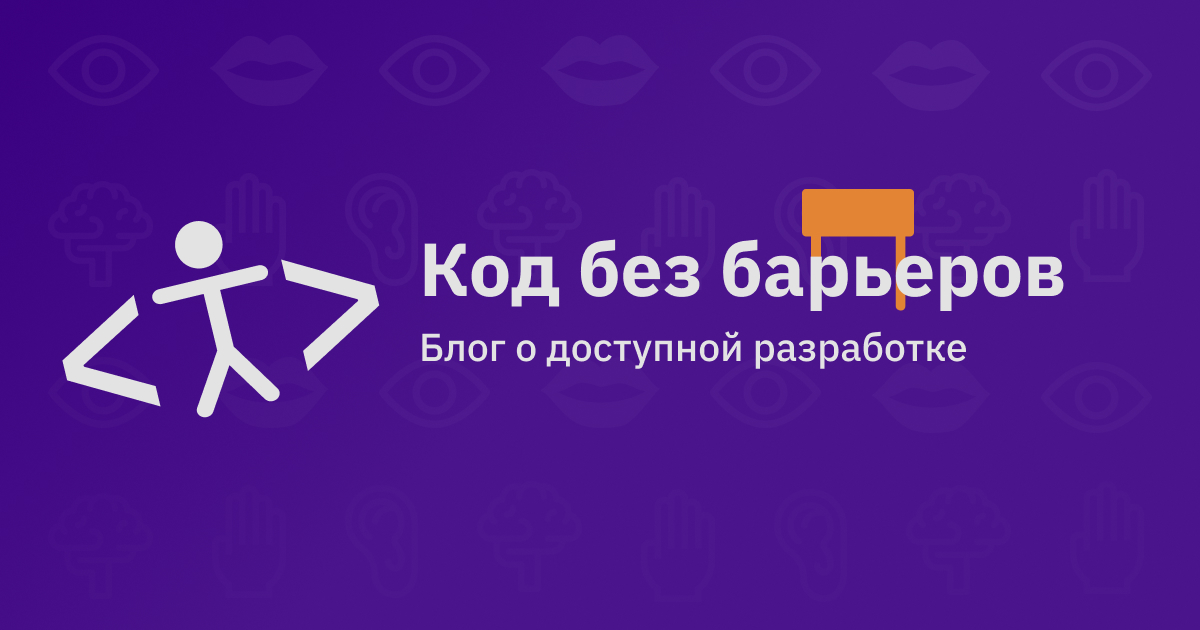
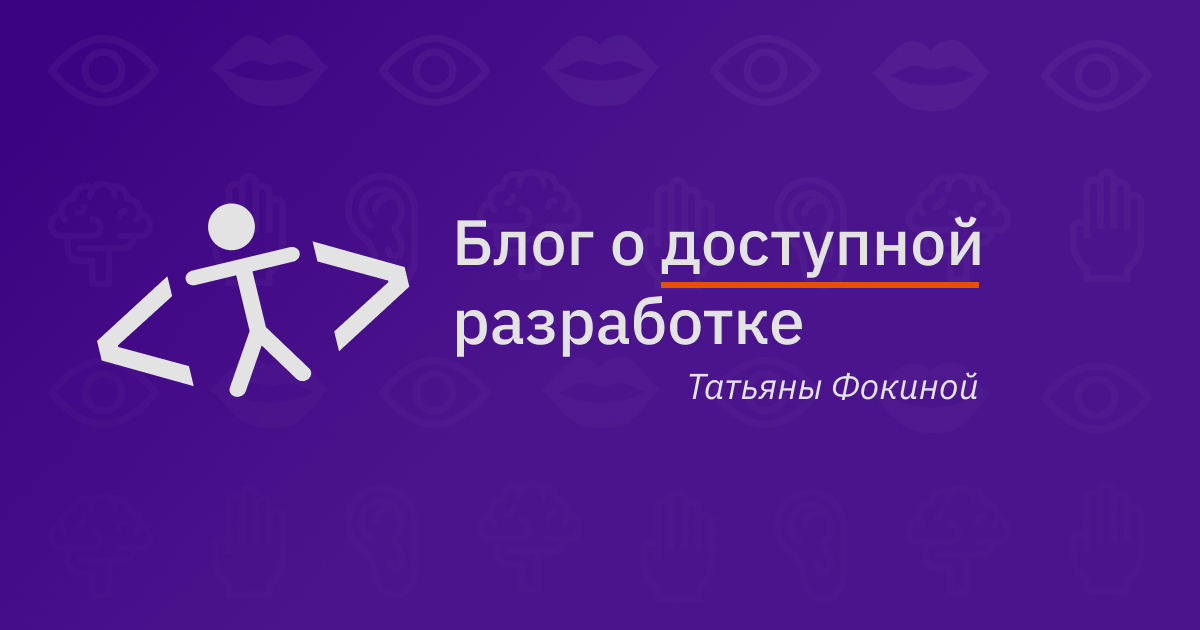
Rename, new OG image

Changed region(s): [[0.0308, 0.3016, 0.8942, 0.6635]]

diff --git a/src/data/site.js b/src/data/site.js
@@ -1,7 +1,7 @@
 module.exports = {
 	"siteLink": "https://code-without-barriers.ru",
-	"title": "Код без барьеров — блог о доступной разработке",
-	"description": "Блог веб-разработчицы Татьяны Фокиной о цифровой доступности.",
-	"ogImageLink": "https://code-without-barriers.ru/assets/og-image.jpg",
+	"title": "Блог Татьяны Фокиной",
+	"description": "Блог о доступной разработке.",
+	"ogImageLink": "https://tatiana-fokina-blog.ru/assets/og-image.jpg",
 	"currentYear": new Date().getFullYear(),
 };

diff --git a/README.md b/README.md
@@ -1,4 +1,4 @@
-# Код без барьеров
+# Блог Татьяны Фокиной
 ## О проекте
 Блог о доступной разработке.
 ## Технологии
